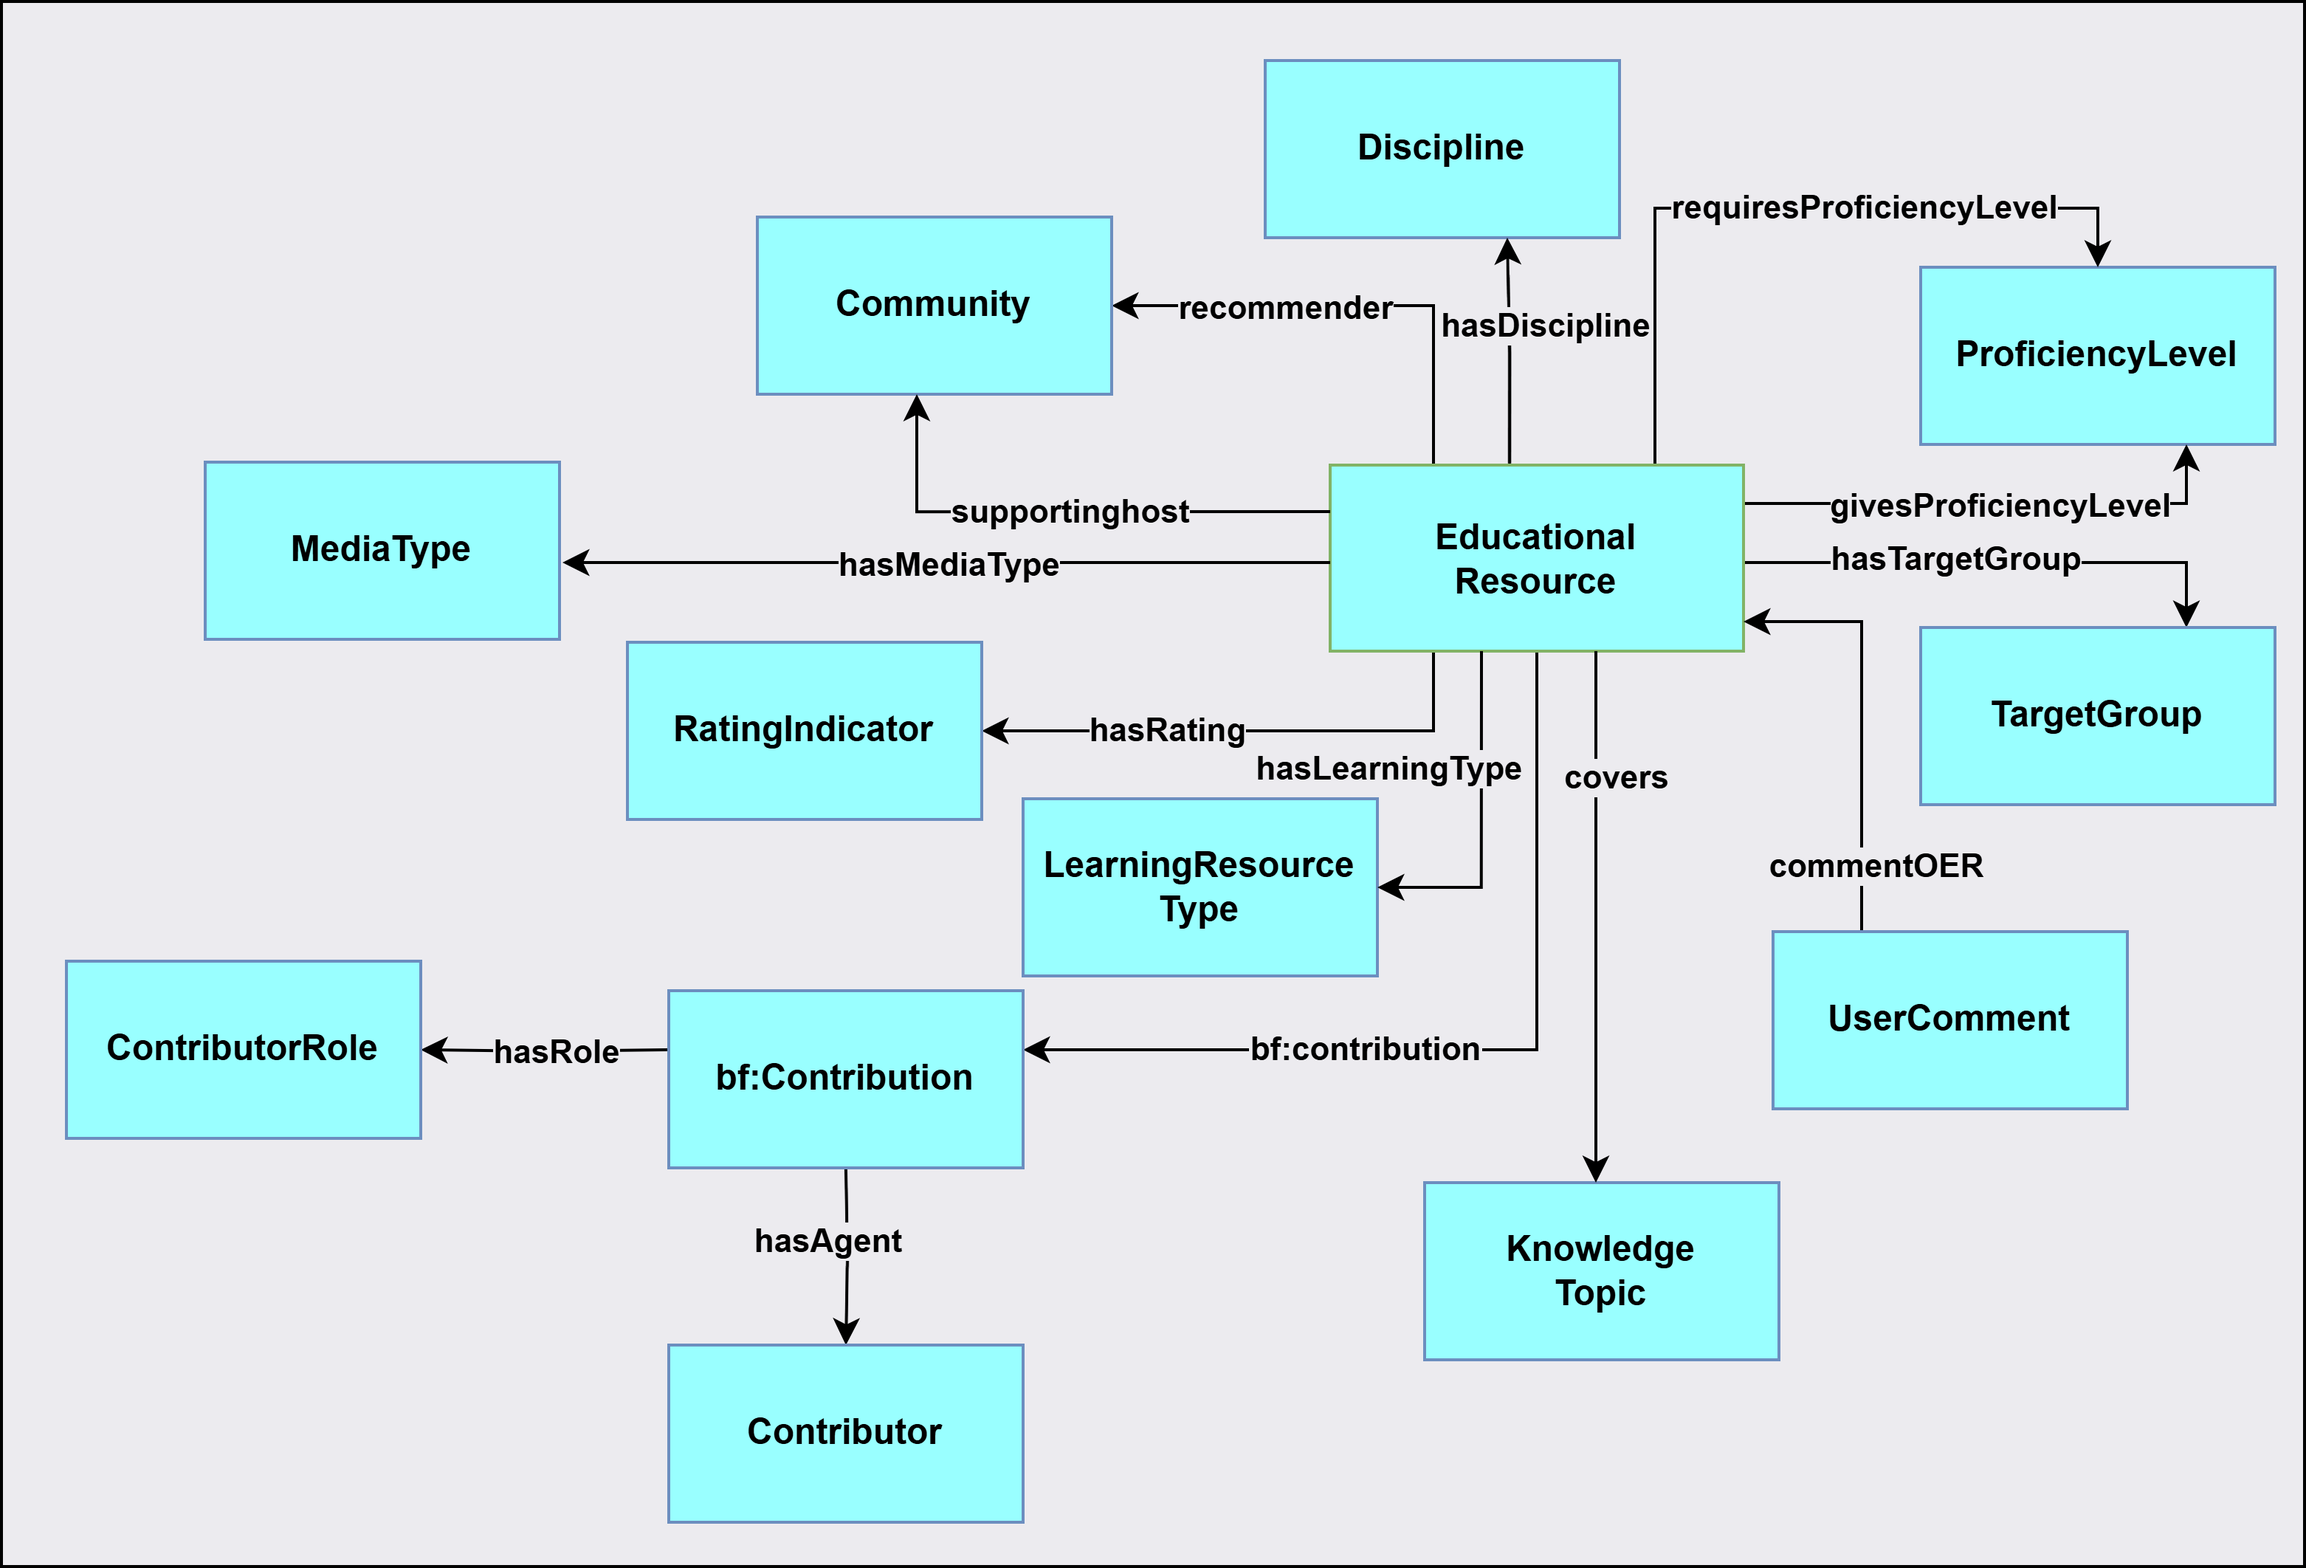
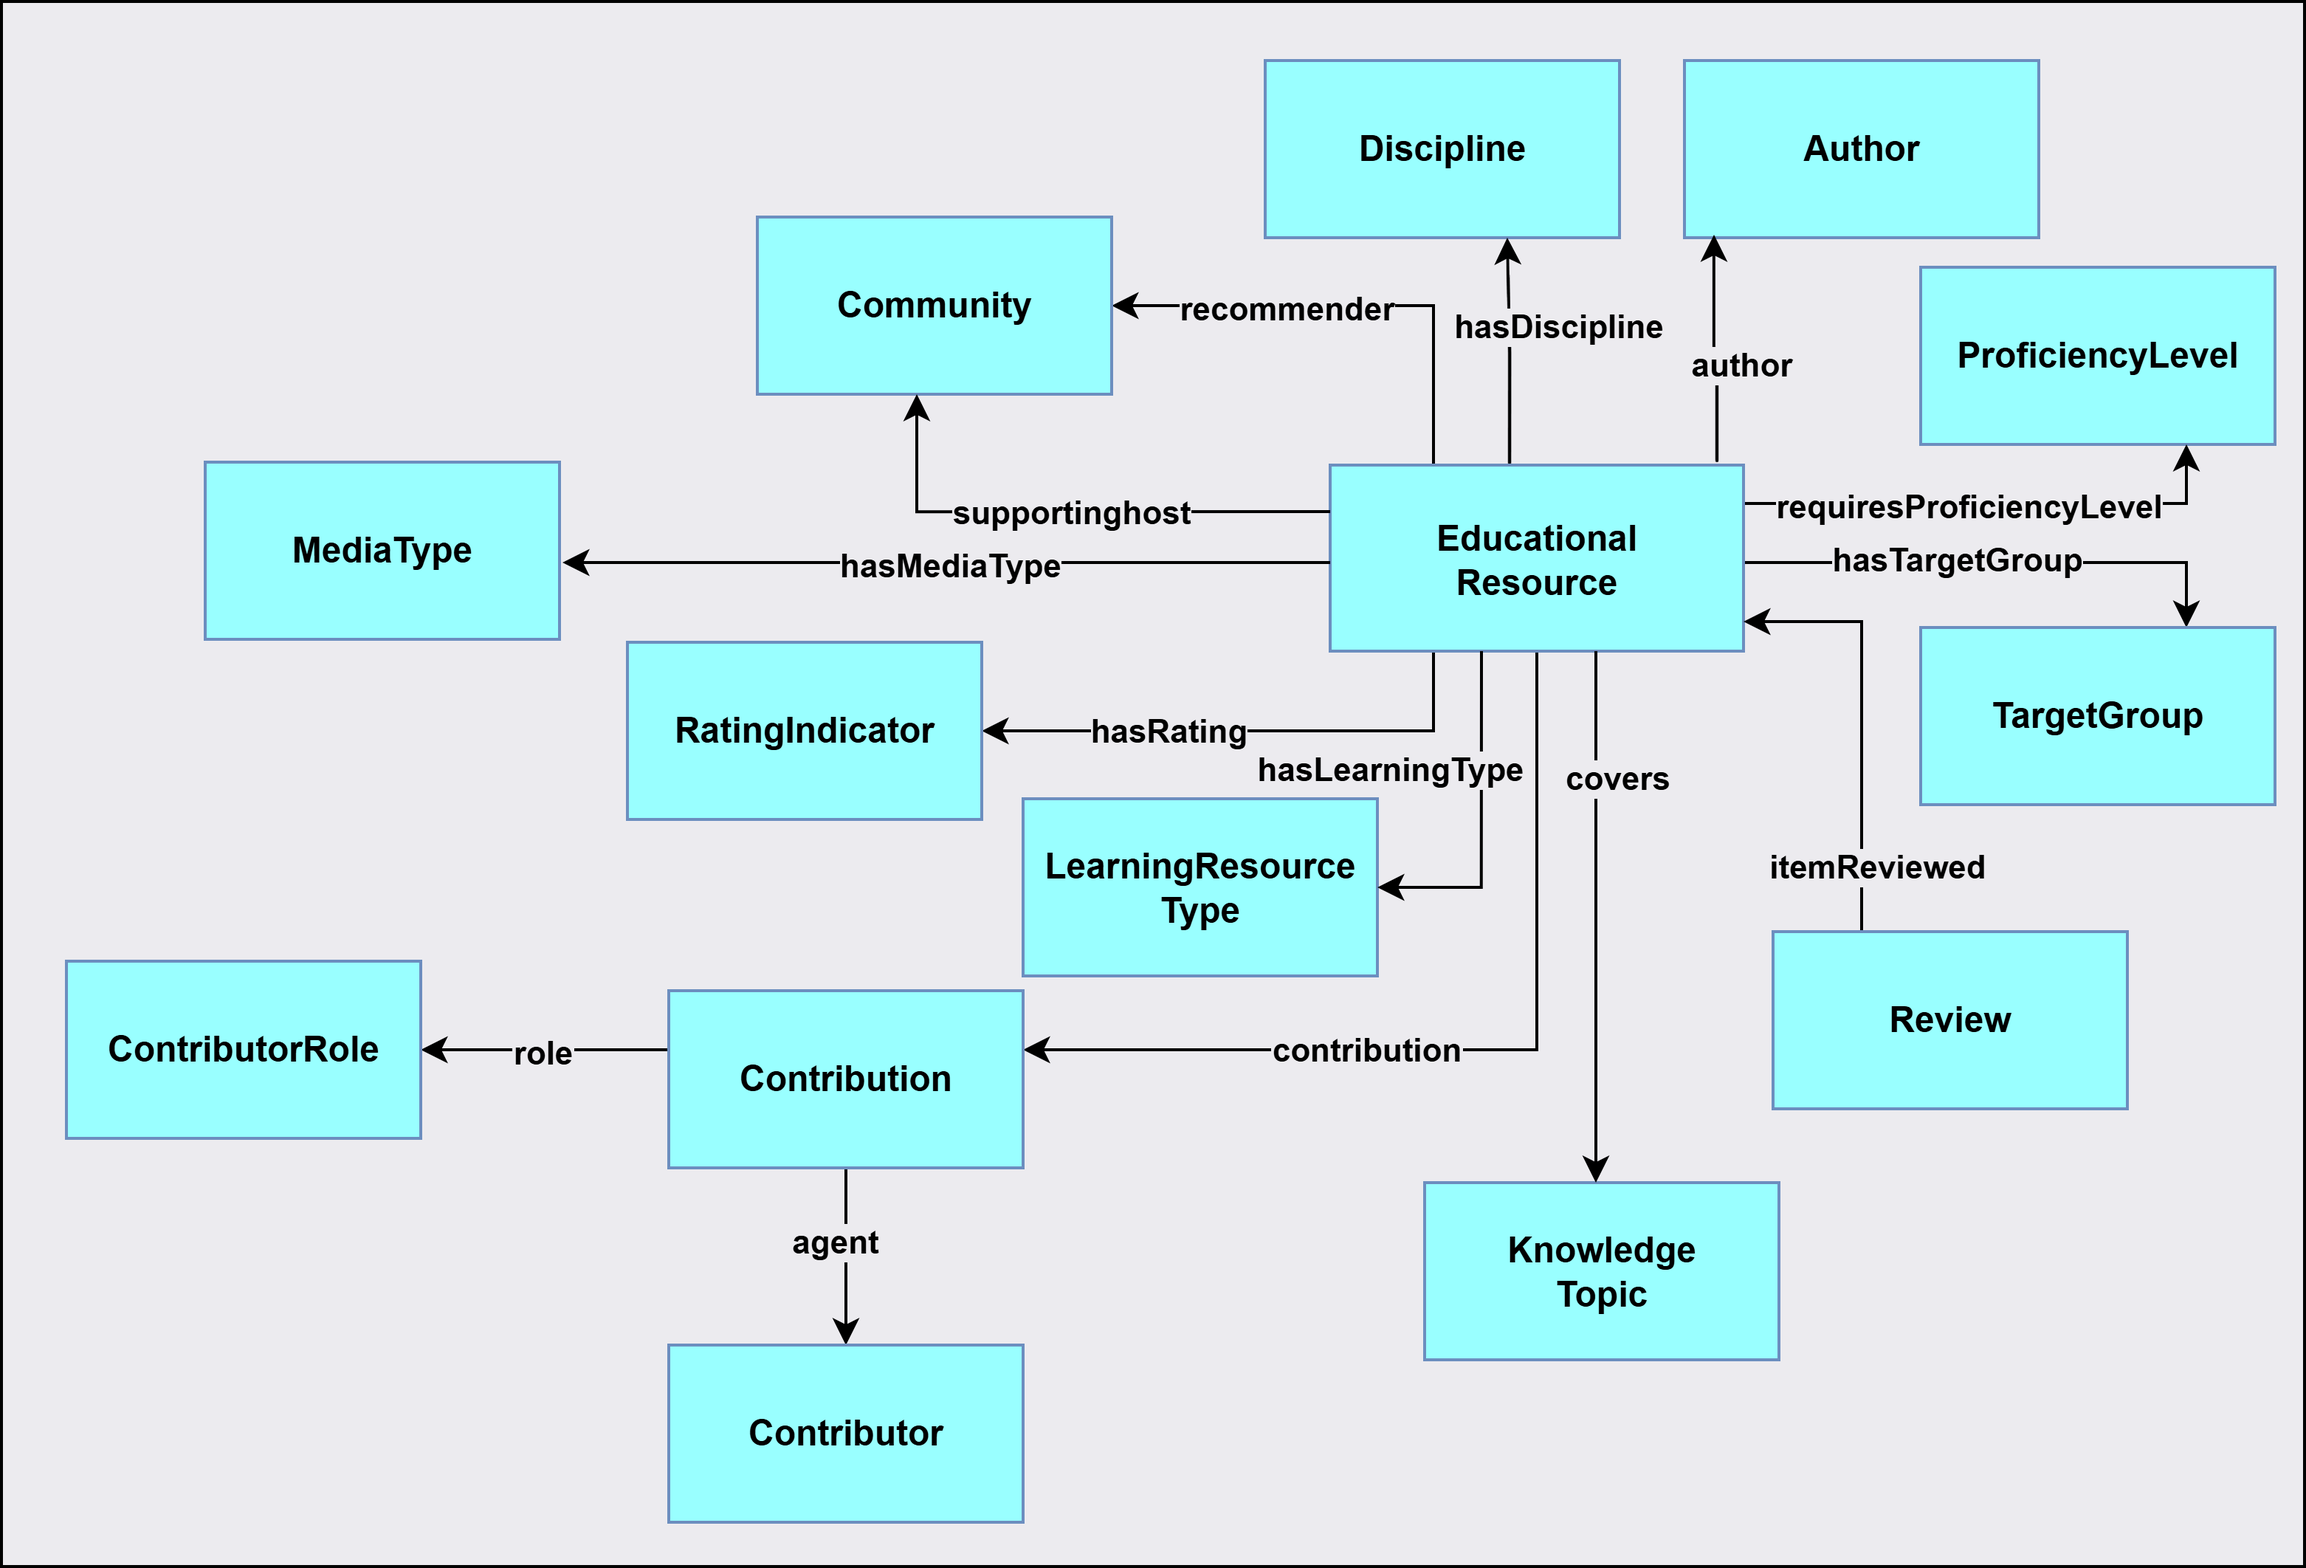
Update Fig

diff --git a/public/index-en.html b/public/index-en.html
@@ -1138,7 +1138,27 @@ This ontology has the following classes and properties.</span>
   
 
 <!--DESCRIPTION SECTION-->
-    <div id="description"></div>
+    <div id="description"><h2 id="desc" class="list">MoDALIA: Description <span class="backlink"> back to <a href="#toc">ToC</a></span></h2>
+
+<p>MODALIA is an OWL ontology as backbone of teaching, learning and personal recommendation platform
+(DALIA). The main focus of DALIA platform is Research Data Management (RDM) and Data Science (DS).
+We used a modular approach in the design of MODALIA. Also we tried to find in the literature suitable terms to
+use instead of creating new ones.</p>
+<h3 id="3-1-educational-resource-module">3.1. Educational Resource Module</h3>
+<p>MODALIA identifies the following modules: Educational Resource, RDM, Knowledge Topic, User Enrollment,
+Community, Learning Path, User Profile. The figure below shows the class diagram of the main module Educational Re-
+source. The main class is Educational Resource class which is extended from EduCor . Class LearningResource-
+Type gives didactic type of the resource and its subclasses include Lecture, Poster, Diagram etc. The other class
+describing the content of the educational resource is MediaType which is similar to Multimedia class in EduCor
+and is related to learners preferred way of learning (i.e. reading, watching, listening, etc). MediaType has subclasses
+Video, Audio, Image, Text and Code. Contributions to the resource are described similar to Bibframe , by iden-
+tifying agent (i.e Contributor) and role. Proficiency level contains five value according to Benner’s proficiency
+levels. It starts from novice to expert. There are two properties the first requiresProficiencyLevel identifies the min-
+imum required level of the learner to be able to learn that resource. The second property givesProficiencyLevel is
+level of learner after successfully learning the resource. Class TargetGroup describes the target audience of a re-
+source. For DALIA project use cases it includes Bachelor student, Master’s student, PhD student and Data Steward.</p>
+<p><img src="resources/EducationalResourcePattern_CD.png" alt="Class diagram of Educational Resource module" width="1200"></p>
+</div>
    
 
 <!--CROSSREF SECTION-->

diff --git a/public/index.html b/public/index.html
@@ -1138,7 +1138,27 @@ This ontology has the following classes and properties.</span>
   
 
 <!--DESCRIPTION SECTION-->
-    <div id="description"></div>
+    <div id="description"><h2 id="desc" class="list">MoDALIA: Description <span class="backlink"> back to <a href="#toc">ToC</a></span></h2>
+
+<p>MODALIA is an OWL ontology as backbone of teaching, learning and personal recommendation platform
+(DALIA). The main focus of DALIA platform is Research Data Management (RDM) and Data Science (DS).
+We used a modular approach in the design of MODALIA. Also we tried to find in the literature suitable terms to
+use instead of creating new ones.</p>
+<h3 id="3-1-educational-resource-module">3.1. Educational Resource Module</h3>
+<p>MODALIA identifies the following modules: Educational Resource, RDM, Knowledge Topic, User Enrollment,
+Community, Learning Path, User Profile. The figure below shows the class diagram of the main module Educational Re-
+source. The main class is Educational Resource class which is extended from EduCor . Class LearningResource-
+Type gives didactic type of the resource and its subclasses include Lecture, Poster, Diagram etc. The other class
+describing the content of the educational resource is MediaType which is similar to Multimedia class in EduCor
+and is related to learners preferred way of learning (i.e. reading, watching, listening, etc). MediaType has subclasses
+Video, Audio, Image, Text and Code. Contributions to the resource are described similar to Bibframe , by iden-
+tifying agent (i.e Contributor) and role. Proficiency level contains five value according to Benner’s proficiency
+levels. It starts from novice to expert. There are two properties the first requiresProficiencyLevel identifies the min-
+imum required level of the learner to be able to learn that resource. The second property givesProficiencyLevel is
+level of learner after successfully learning the resource. Class TargetGroup describes the target audience of a re-
+source. For DALIA project use cases it includes Bachelor student, Master’s student, PhD student and Data Steward.</p>
+<p><img src="resources/EducationalResourcePattern_CD.png" alt="Class diagram of Educational Resource module" width="1200"></p>
+</div>
    
 
 <!--CROSSREF SECTION-->
